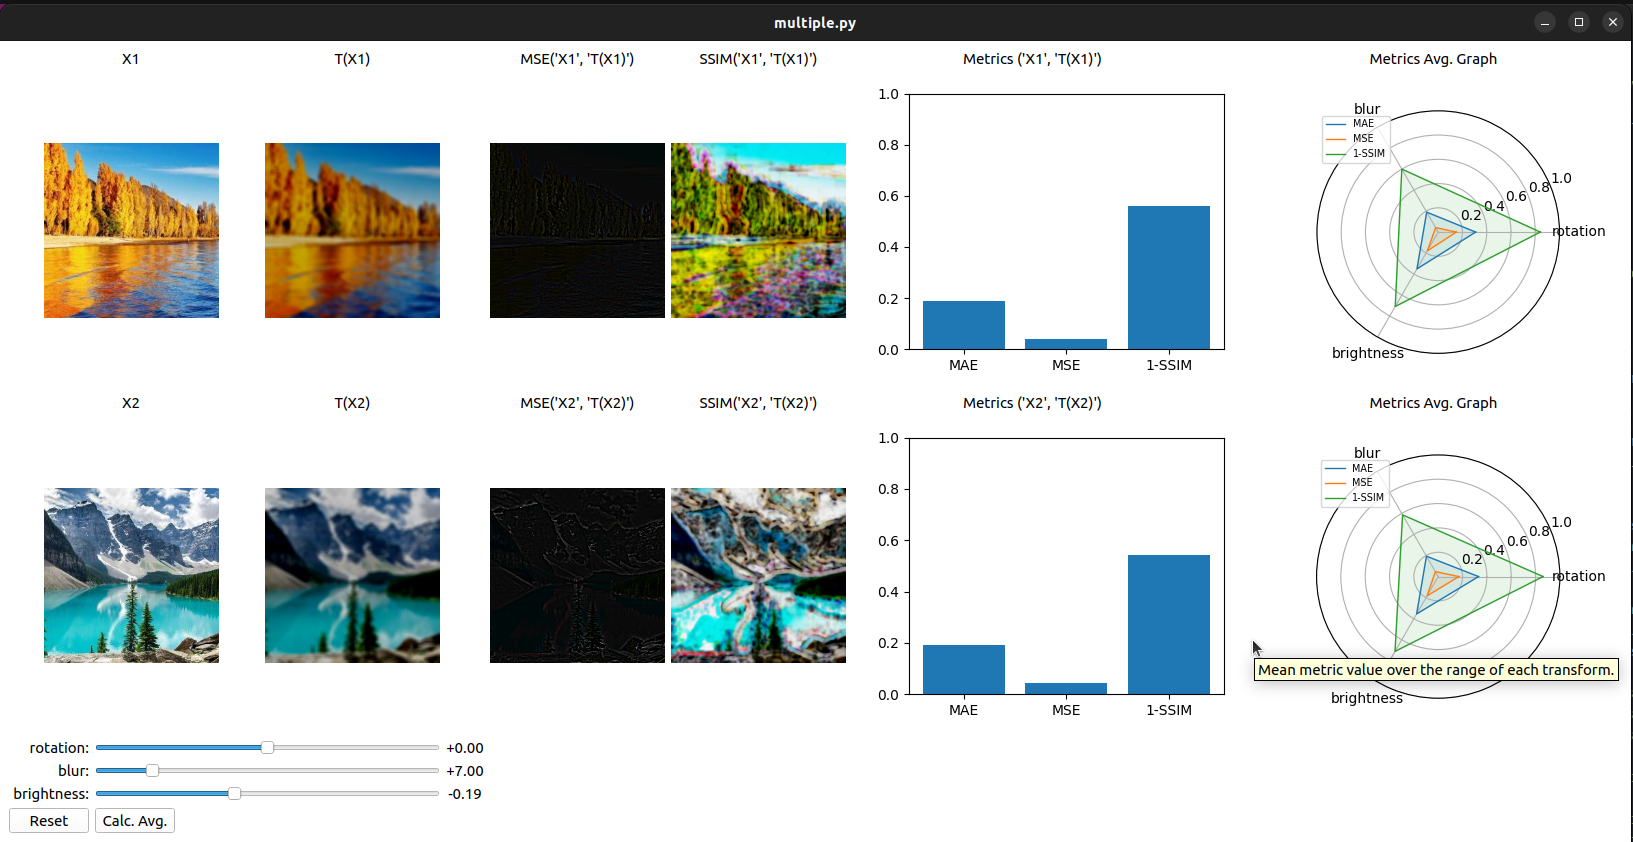
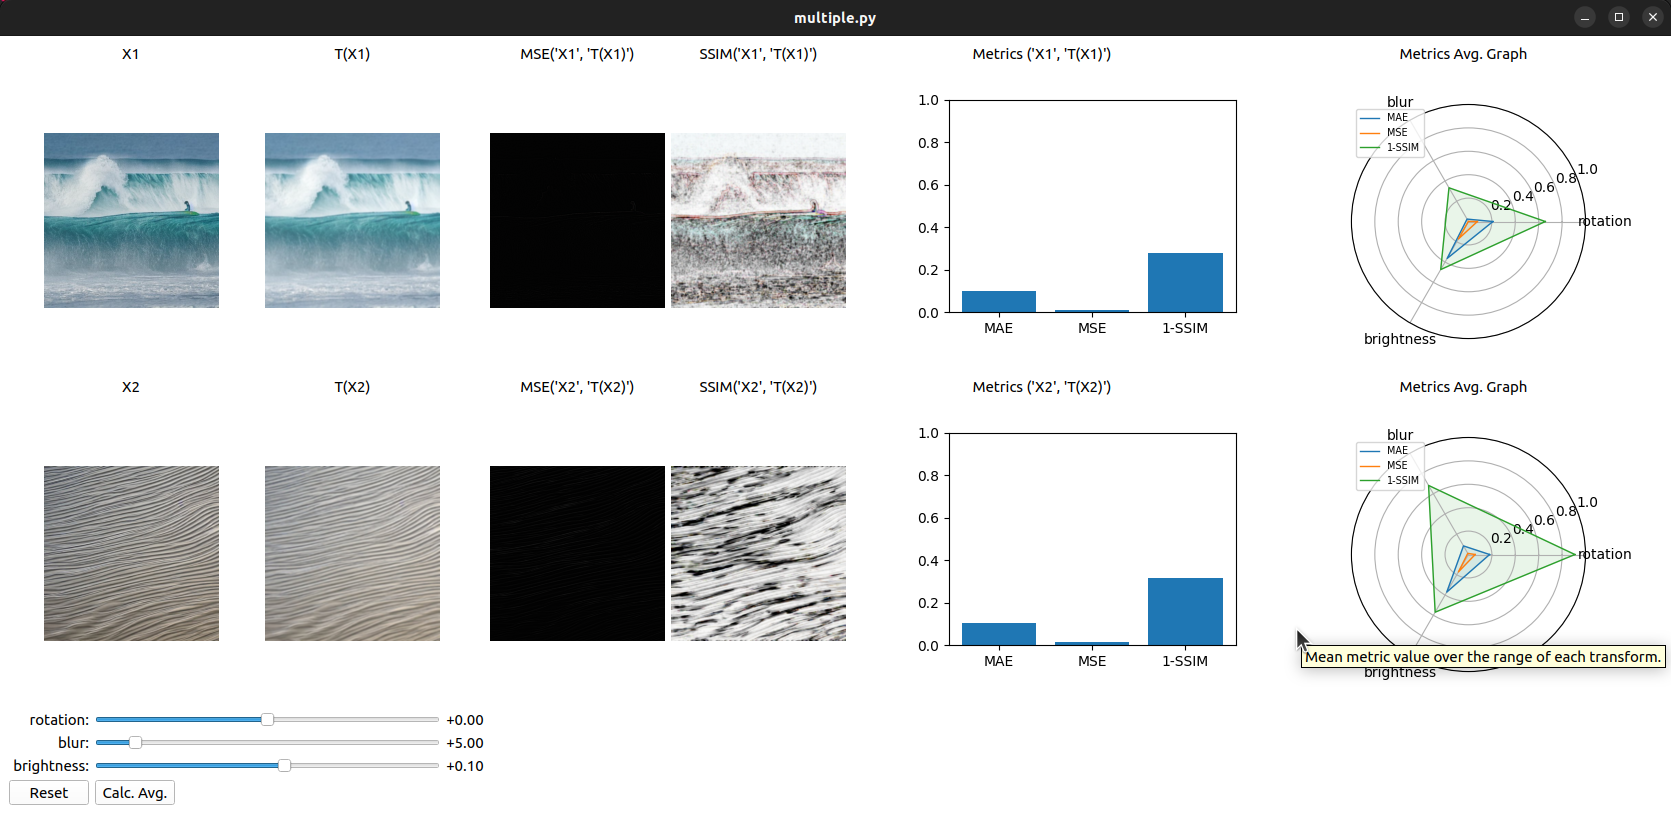
new ims (from stable diffusion to make copyright free)

diff --git a/examples/multiple.py b/examples/multiple.py
@@ -15,11 +15,11 @@ metric_images = {'MSE': metrics.MSE_image,
                  'SSIM': metrics.SSIM_image()}
 
 # first row of images
-row_1 = data.holder(('X1', gui_utils.image_loader('examples/images/image2.jpg')),
+row_1 = data.holder(('X1', gui_utils.image_loader('examples/images/wave3.jpeg')),
                          metric,
                          metric_images)
 # second row of images
-row_2 = data.holder(('X2', gui_utils.image_loader('examples/images/image3.jpg')),
+row_2 = data.holder(('X2', gui_utils.image_loader('examples/images/waves1.jpeg')),
                          metric,
                          metric_images)
 # define the transformations

diff --git a/examples/simple.py b/examples/simple.py
@@ -7,7 +7,7 @@ from IQM_VIS.utils import gui_utils
 metric = {'MAE': lambda im1, im2: np.abs(im1 - im2).mean()}
 metric_im = {'MAE': lambda im1, im2: np.abs(im1 - im2)}
 # add numpy image and the metrics to the data handler
-data_store = data.holder(('X', gui_utils.image_loader('examples/images/image2.jpg')),
+data_store = data.holder(('X', gui_utils.image_loader('examples/images/wave3.jpeg')),
                          metric,
                          metric_im)
 # define the transformations
